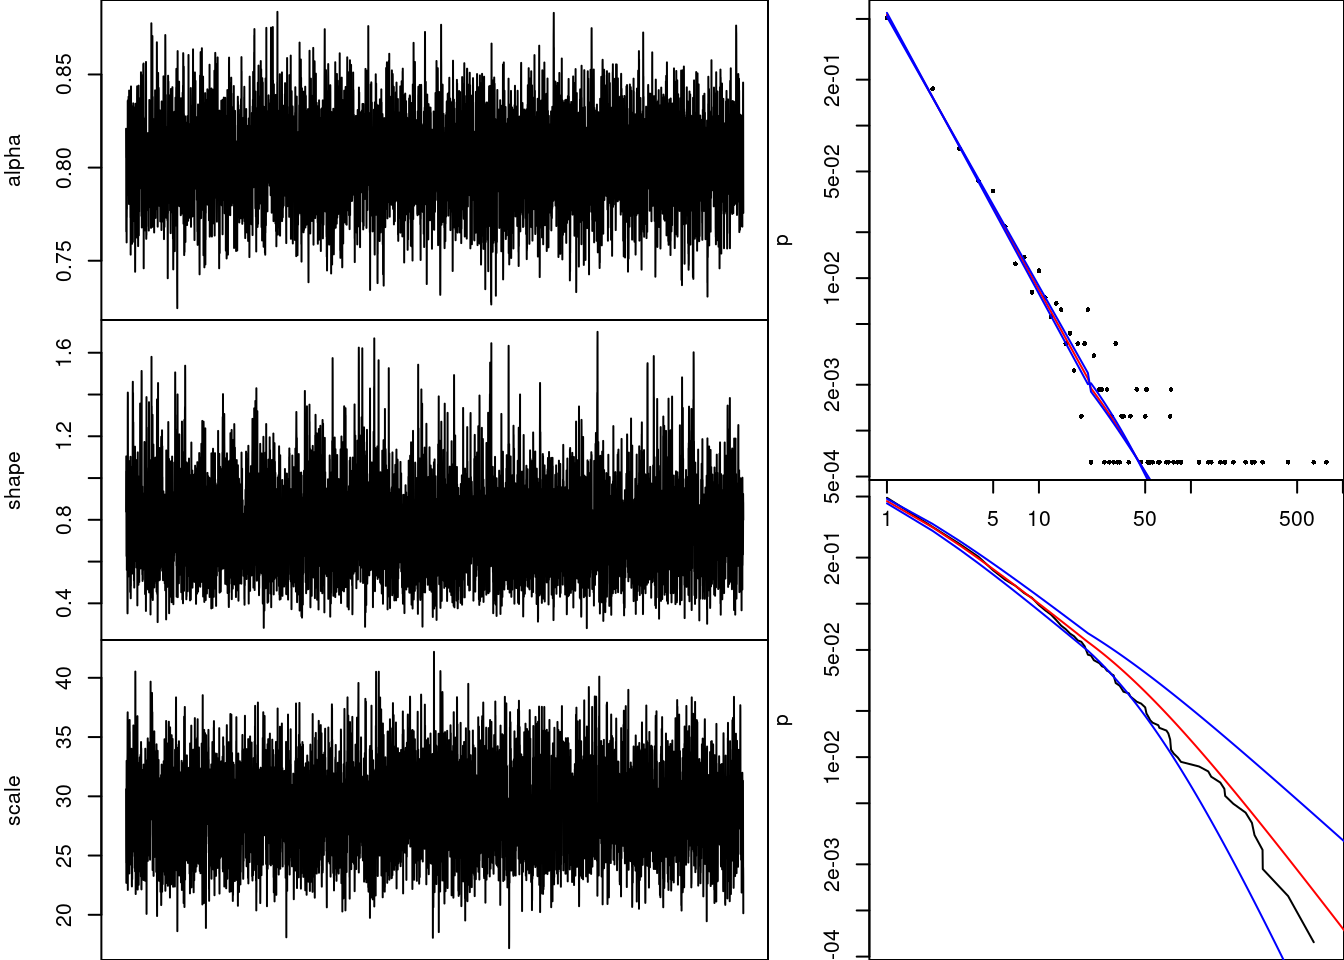
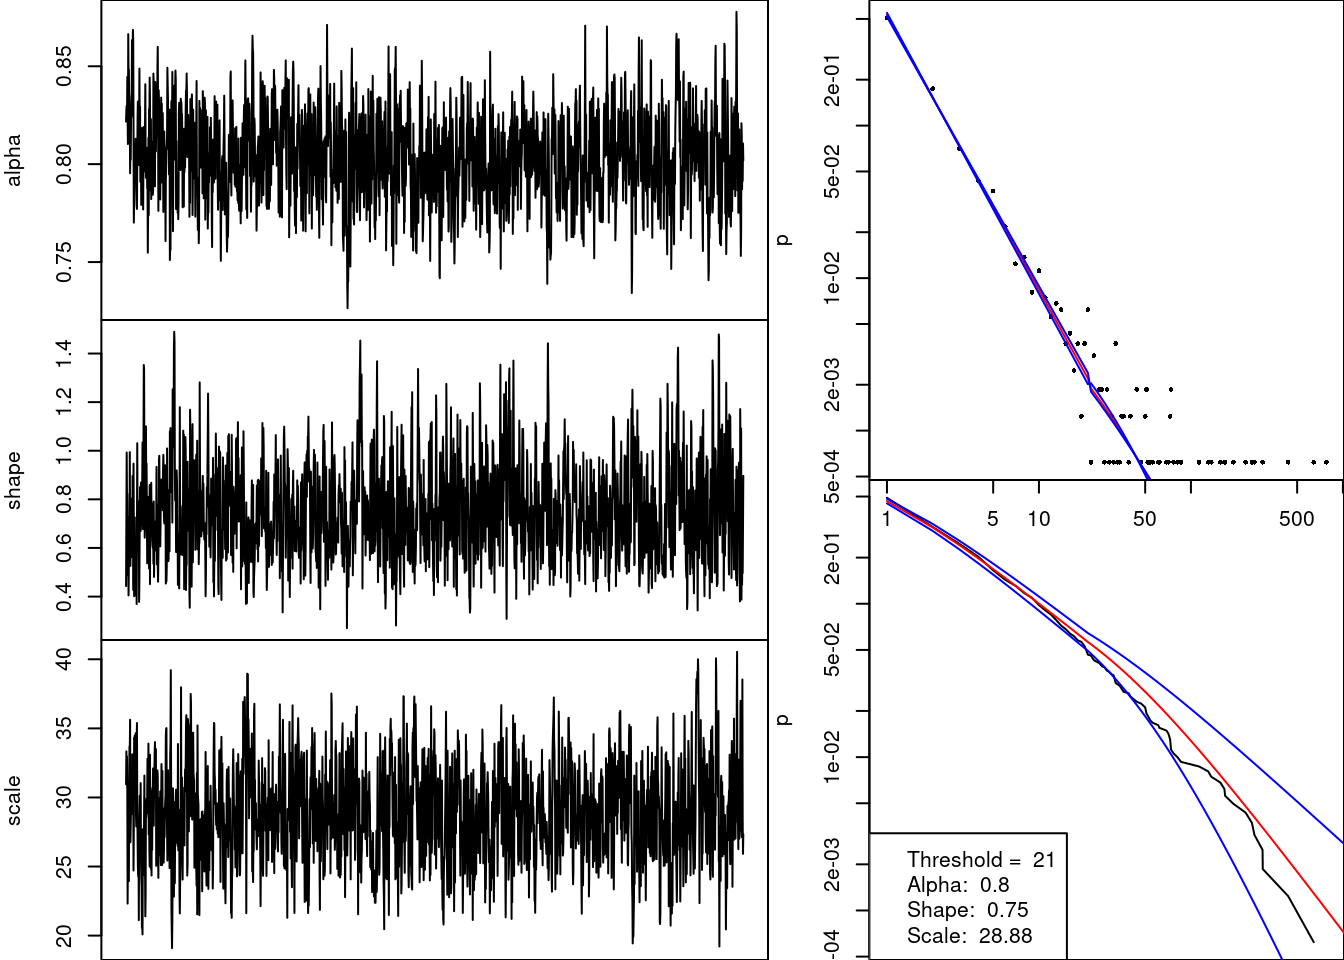
Improved Plots

diff --git a/quarto/CRAN.html b/quarto/CRAN.html
@@ -99,30 +99,30 @@ pre > code.sourceCode > span > a:first-child::before { text-decoration: underlin
   <li><a href="#depends-data-1" id="toc-depends-data-1" class="nav-link" data-scroll-target="#depends-data-1">Depends data</a>
   <ul class="collapse">
   <li><a href="#quantile-0.95" id="toc-quantile-0.95" class="nav-link" data-scroll-target="#quantile-0.95">Quantile 0.95</a></li>
+  <li><a href="#quantile-0.96" id="toc-quantile-0.96" class="nav-link" data-scroll-target="#quantile-0.96">Quantile 0.96</a></li>
   <li><a href="#quantile-0.97" id="toc-quantile-0.97" class="nav-link" data-scroll-target="#quantile-0.97">Quantile 0.97</a></li>
   <li><a href="#quantile-0.98" id="toc-quantile-0.98" class="nav-link" data-scroll-target="#quantile-0.98">Quantile 0.98</a></li>
-  <li><a href="#quantile-0.99" id="toc-quantile-0.99" class="nav-link" data-scroll-target="#quantile-0.99">Quantile 0.99</a></li>
   </ul></li>
   <li><a href="#imports-data-1" id="toc-imports-data-1" class="nav-link" data-scroll-target="#imports-data-1">Imports data</a>
   <ul class="collapse">
   <li><a href="#quantile-0.95-1" id="toc-quantile-0.95-1" class="nav-link" data-scroll-target="#quantile-0.95-1">Quantile 0.95</a></li>
+  <li><a href="#quantile-0.96-1" id="toc-quantile-0.96-1" class="nav-link" data-scroll-target="#quantile-0.96-1">Quantile 0.96</a></li>
   <li><a href="#quantile-0.97-1" id="toc-quantile-0.97-1" class="nav-link" data-scroll-target="#quantile-0.97-1">Quantile 0.97</a></li>
   <li><a href="#quantile-0.98-1" id="toc-quantile-0.98-1" class="nav-link" data-scroll-target="#quantile-0.98-1">Quantile 0.98</a></li>
-  <li><a href="#quantile-0.99-1" id="toc-quantile-0.99-1" class="nav-link" data-scroll-target="#quantile-0.99-1">Quantile 0.99</a></li>
   </ul></li>
   <li><a href="#depends-without-zeros" id="toc-depends-without-zeros" class="nav-link" data-scroll-target="#depends-without-zeros">Depends Without Zeros</a>
   <ul class="collapse">
   <li><a href="#quantile-0.95-2" id="toc-quantile-0.95-2" class="nav-link" data-scroll-target="#quantile-0.95-2">Quantile 0.95</a></li>
+  <li><a href="#quantile-0.96-2" id="toc-quantile-0.96-2" class="nav-link" data-scroll-target="#quantile-0.96-2">Quantile 0.96</a></li>
   <li><a href="#quantile-0.97-2" id="toc-quantile-0.97-2" class="nav-link" data-scroll-target="#quantile-0.97-2">Quantile 0.97</a></li>
   <li><a href="#quantile-0.98-2" id="toc-quantile-0.98-2" class="nav-link" data-scroll-target="#quantile-0.98-2">Quantile 0.98</a></li>
-  <li><a href="#quantile-0.99-2" id="toc-quantile-0.99-2" class="nav-link" data-scroll-target="#quantile-0.99-2">Quantile 0.99</a></li>
   </ul></li>
   <li><a href="#imports-without-zeros" id="toc-imports-without-zeros" class="nav-link" data-scroll-target="#imports-without-zeros">Imports Without Zeros</a>
   <ul class="collapse">
   <li><a href="#quantile-0.95-3" id="toc-quantile-0.95-3" class="nav-link" data-scroll-target="#quantile-0.95-3">Quantile 0.95</a></li>
+  <li><a href="#quantile-0.96-3" id="toc-quantile-0.96-3" class="nav-link" data-scroll-target="#quantile-0.96-3">Quantile 0.96</a></li>
   <li><a href="#quantile-0.97-3" id="toc-quantile-0.97-3" class="nav-link" data-scroll-target="#quantile-0.97-3">Quantile 0.97</a></li>
   <li><a href="#quantile-0.98-3" id="toc-quantile-0.98-3" class="nav-link" data-scroll-target="#quantile-0.98-3">Quantile 0.98</a></li>
-  <li><a href="#quantile-0.99-3" id="toc-quantile-0.99-3" class="nav-link" data-scroll-target="#quantile-0.99-3">Quantile 0.99</a></li>
   </ul></li>
   </ul></li>
   </ul></li>
@@ -339,7 +339,7 @@ L(x) = \zeta(\alpha+1)^{-n}C_{\alpha,u}^{N-n}\prod_{i:x_i\leq u}x_i^{-(\alpha+1)
 <section id="plots-of-fitted-model" class="level2">
 <h2 class="anchored" data-anchor-id="plots-of-fitted-model">Plots of fitted model</h2>
 <div class="cell">
-<div class="sourceCode cell-code" id="cb1"><pre class="sourceCode r code-with-copy"><code class="sourceCode r"><span id="cb1-1"><a href="#cb1-1" aria-hidden="true" tabindex="-1"></a>n.iter<span class="ot">=</span><span class="fl">4e4</span></span></code><button title="Copy to Clipboard" class="code-copy-button"><i class="bi"></i></button></pre></div>
+<div class="sourceCode cell-code" id="cb1"><pre class="sourceCode r code-with-copy"><code class="sourceCode r"><span id="cb1-1"><a href="#cb1-1" aria-hidden="true" tabindex="-1"></a>n.iter<span class="ot">=</span><span class="fl">1e4</span></span></code><button title="Copy to Clipboard" class="code-copy-button"><i class="bi"></i></button></pre></div>
 </div>
 <section id="depends-data-1" class="level3">
 <h3 class="anchored" data-anchor-id="depends-data-1">Depends data</h3>
@@ -351,24 +351,24 @@ L(x) = \zeta(\alpha+1)^{-n}C_{\alpha,u}^{N-n}\prod_{i:x_i\leq u}x_i^{-(\alpha+1)
 </div>
 </div>
 </section>
-<section id="quantile-0.97" class="level4">
-<h4 class="anchored" data-anchor-id="quantile-0.97">Quantile 0.97</h4>
+<section id="quantile-0.96" class="level4">
+<h4 class="anchored" data-anchor-id="quantile-0.96">Quantile 0.96</h4>
 <div class="cell">
 <div class="cell-output-display">
 <p><img src="CRAN_files/figure-html/unnamed-chunk-3-1.png" class="img-fluid" width="672"></p>
 </div>
 </div>
 </section>
-<section id="quantile-0.98" class="level4">
-<h4 class="anchored" data-anchor-id="quantile-0.98">Quantile 0.98</h4>
+<section id="quantile-0.97" class="level4">
+<h4 class="anchored" data-anchor-id="quantile-0.97">Quantile 0.97</h4>
 <div class="cell">
 <div class="cell-output-display">
 <p><img src="CRAN_files/figure-html/unnamed-chunk-4-1.png" class="img-fluid" width="672"></p>
 </div>
 </div>
 </section>
-<section id="quantile-0.99" class="level4">
-<h4 class="anchored" data-anchor-id="quantile-0.99">Quantile 0.99</h4>
+<section id="quantile-0.98" class="level4">
+<h4 class="anchored" data-anchor-id="quantile-0.98">Quantile 0.98</h4>
 <div class="cell">
 <div class="cell-output-display">
 <p><img src="CRAN_files/figure-html/unnamed-chunk-5-1.png" class="img-fluid" width="672"></p>
@@ -386,24 +386,24 @@ L(x) = \zeta(\alpha+1)^{-n}C_{\alpha,u}^{N-n}\prod_{i:x_i\leq u}x_i^{-(\alpha+1)
 </div>
 </div>
 </section>
-<section id="quantile-0.97-1" class="level4">
-<h4 class="anchored" data-anchor-id="quantile-0.97-1">Quantile 0.97</h4>
+<section id="quantile-0.96-1" class="level4">
+<h4 class="anchored" data-anchor-id="quantile-0.96-1">Quantile 0.96</h4>
 <div class="cell">
 <div class="cell-output-display">
 <p><img src="CRAN_files/figure-html/unnamed-chunk-7-1.png" class="img-fluid" width="672"></p>
 </div>
 </div>
 </section>
-<section id="quantile-0.98-1" class="level4">
-<h4 class="anchored" data-anchor-id="quantile-0.98-1">Quantile 0.98</h4>
+<section id="quantile-0.97-1" class="level4">
+<h4 class="anchored" data-anchor-id="quantile-0.97-1">Quantile 0.97</h4>
 <div class="cell">
 <div class="cell-output-display">
 <p><img src="CRAN_files/figure-html/unnamed-chunk-8-1.png" class="img-fluid" width="672"></p>
 </div>
 </div>
 </section>
-<section id="quantile-0.99-1" class="level4">
-<h4 class="anchored" data-anchor-id="quantile-0.99-1">Quantile 0.99</h4>
+<section id="quantile-0.98-1" class="level4">
+<h4 class="anchored" data-anchor-id="quantile-0.98-1">Quantile 0.98</h4>
 <div class="cell">
 <div class="cell-output-display">
 <p><img src="CRAN_files/figure-html/unnamed-chunk-9-1.png" class="img-fluid" width="672"></p>
@@ -421,24 +421,24 @@ L(x) = \zeta(\alpha+1)^{-n}C_{\alpha,u}^{N-n}\prod_{i:x_i\leq u}x_i^{-(\alpha+1)
 </div>
 </div>
 </section>
-<section id="quantile-0.97-2" class="level4">
-<h4 class="anchored" data-anchor-id="quantile-0.97-2">Quantile 0.97</h4>
+<section id="quantile-0.96-2" class="level4">
+<h4 class="anchored" data-anchor-id="quantile-0.96-2">Quantile 0.96</h4>
 <div class="cell">
 <div class="cell-output-display">
 <p><img src="CRAN_files/figure-html/unnamed-chunk-11-1.png" class="img-fluid" width="672"></p>
 </div>
 </div>
 </section>
-<section id="quantile-0.98-2" class="level4">
-<h4 class="anchored" data-anchor-id="quantile-0.98-2">Quantile 0.98</h4>
+<section id="quantile-0.97-2" class="level4">
+<h4 class="anchored" data-anchor-id="quantile-0.97-2">Quantile 0.97</h4>
 <div class="cell">
 <div class="cell-output-display">
 <p><img src="CRAN_files/figure-html/unnamed-chunk-12-1.png" class="img-fluid" width="672"></p>
 </div>
 </div>
 </section>
-<section id="quantile-0.99-2" class="level4">
-<h4 class="anchored" data-anchor-id="quantile-0.99-2">Quantile 0.99</h4>
+<section id="quantile-0.98-2" class="level4">
+<h4 class="anchored" data-anchor-id="quantile-0.98-2">Quantile 0.98</h4>
 <div class="cell">
 <div class="cell-output-display">
 <p><img src="CRAN_files/figure-html/unnamed-chunk-13-1.png" class="img-fluid" width="672"></p>
@@ -456,24 +456,24 @@ L(x) = \zeta(\alpha+1)^{-n}C_{\alpha,u}^{N-n}\prod_{i:x_i\leq u}x_i^{-(\alpha+1)
 </div>
 </div>
 </section>
-<section id="quantile-0.97-3" class="level4">
-<h4 class="anchored" data-anchor-id="quantile-0.97-3">Quantile 0.97</h4>
+<section id="quantile-0.96-3" class="level4">
+<h4 class="anchored" data-anchor-id="quantile-0.96-3">Quantile 0.96</h4>
 <div class="cell">
 <div class="cell-output-display">
 <p><img src="CRAN_files/figure-html/unnamed-chunk-15-1.png" class="img-fluid" width="672"></p>
 </div>
 </div>
 </section>
-<section id="quantile-0.98-3" class="level4">
-<h4 class="anchored" data-anchor-id="quantile-0.98-3">Quantile 0.98</h4>
+<section id="quantile-0.97-3" class="level4">
+<h4 class="anchored" data-anchor-id="quantile-0.97-3">Quantile 0.97</h4>
 <div class="cell">
 <div class="cell-output-display">
 <p><img src="CRAN_files/figure-html/unnamed-chunk-16-1.png" class="img-fluid" width="672"></p>
 </div>
 </div>
 </section>
-<section id="quantile-0.99-3" class="level4">
-<h4 class="anchored" data-anchor-id="quantile-0.99-3">Quantile 0.99</h4>
+<section id="quantile-0.98-3" class="level4">
+<h4 class="anchored" data-anchor-id="quantile-0.98-3">Quantile 0.98</h4>
 <div class="cell">
 <div class="cell-output-display">
 <p><img src="CRAN_files/figure-html/unnamed-chunk-17-1.png" class="img-fluid" width="672"></p>
